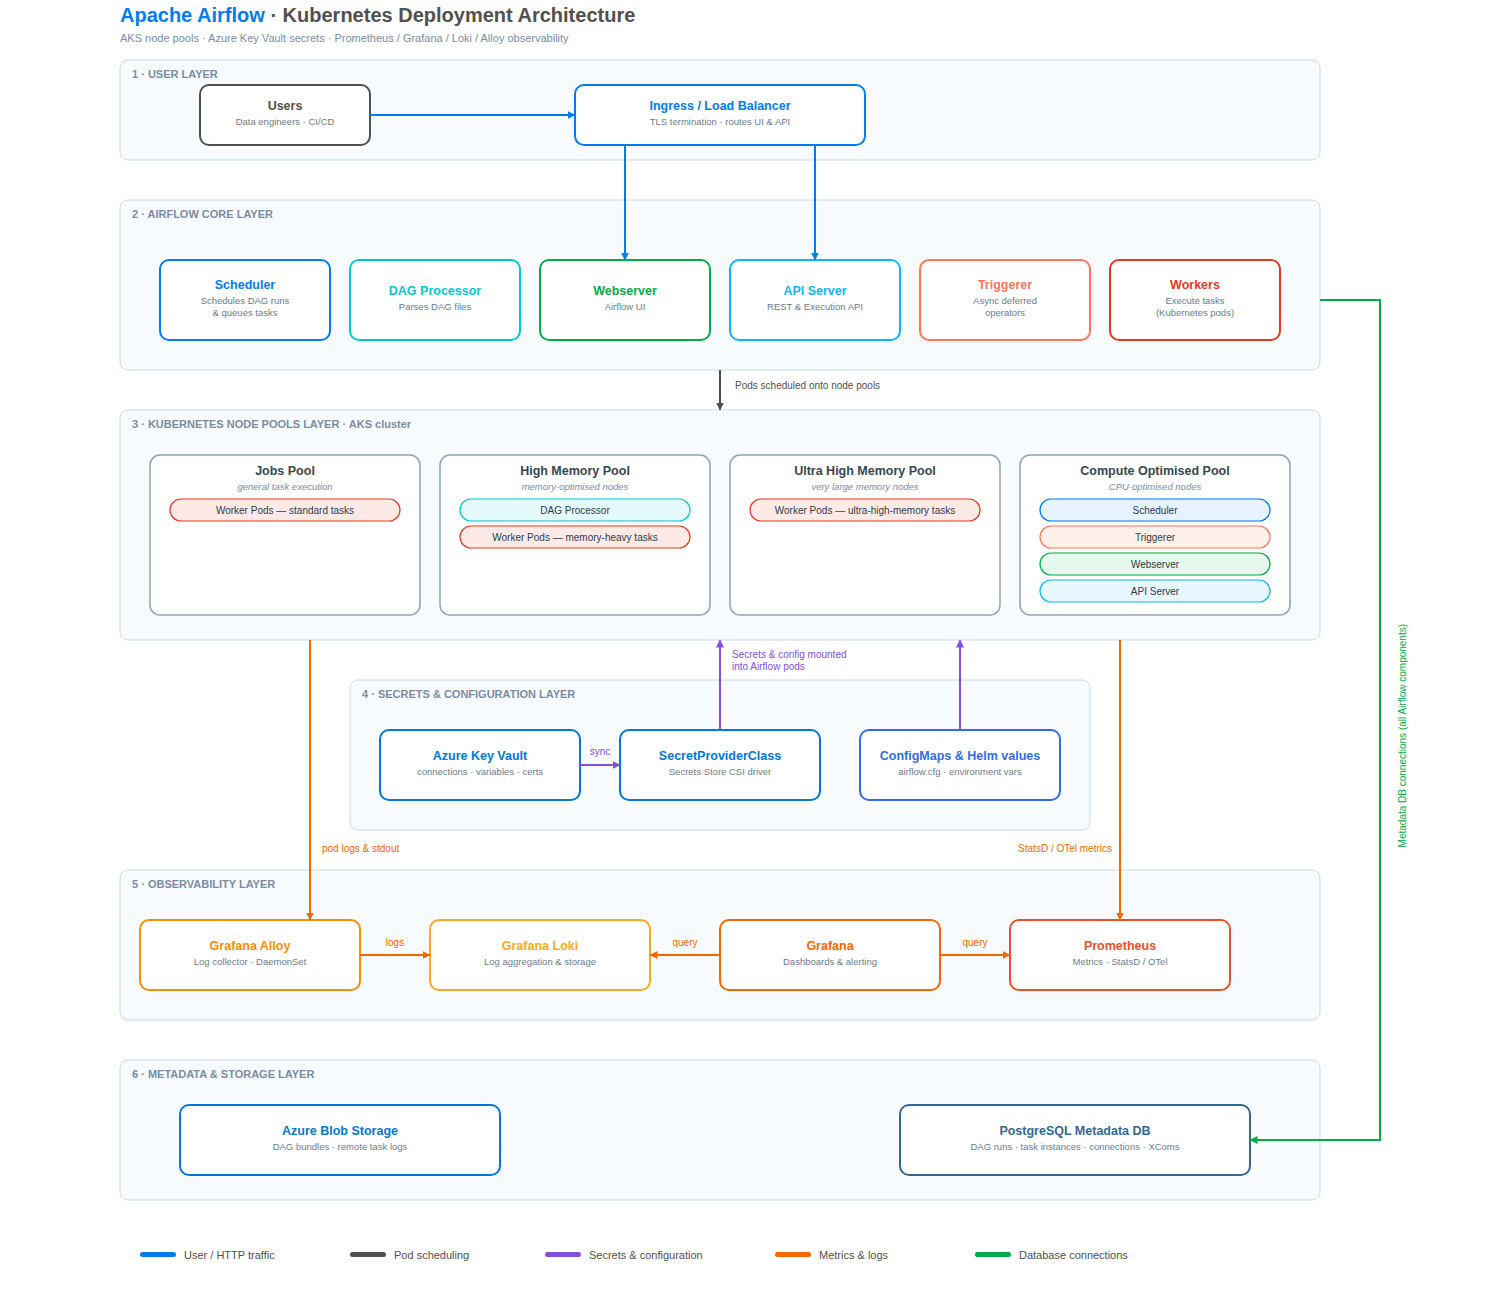
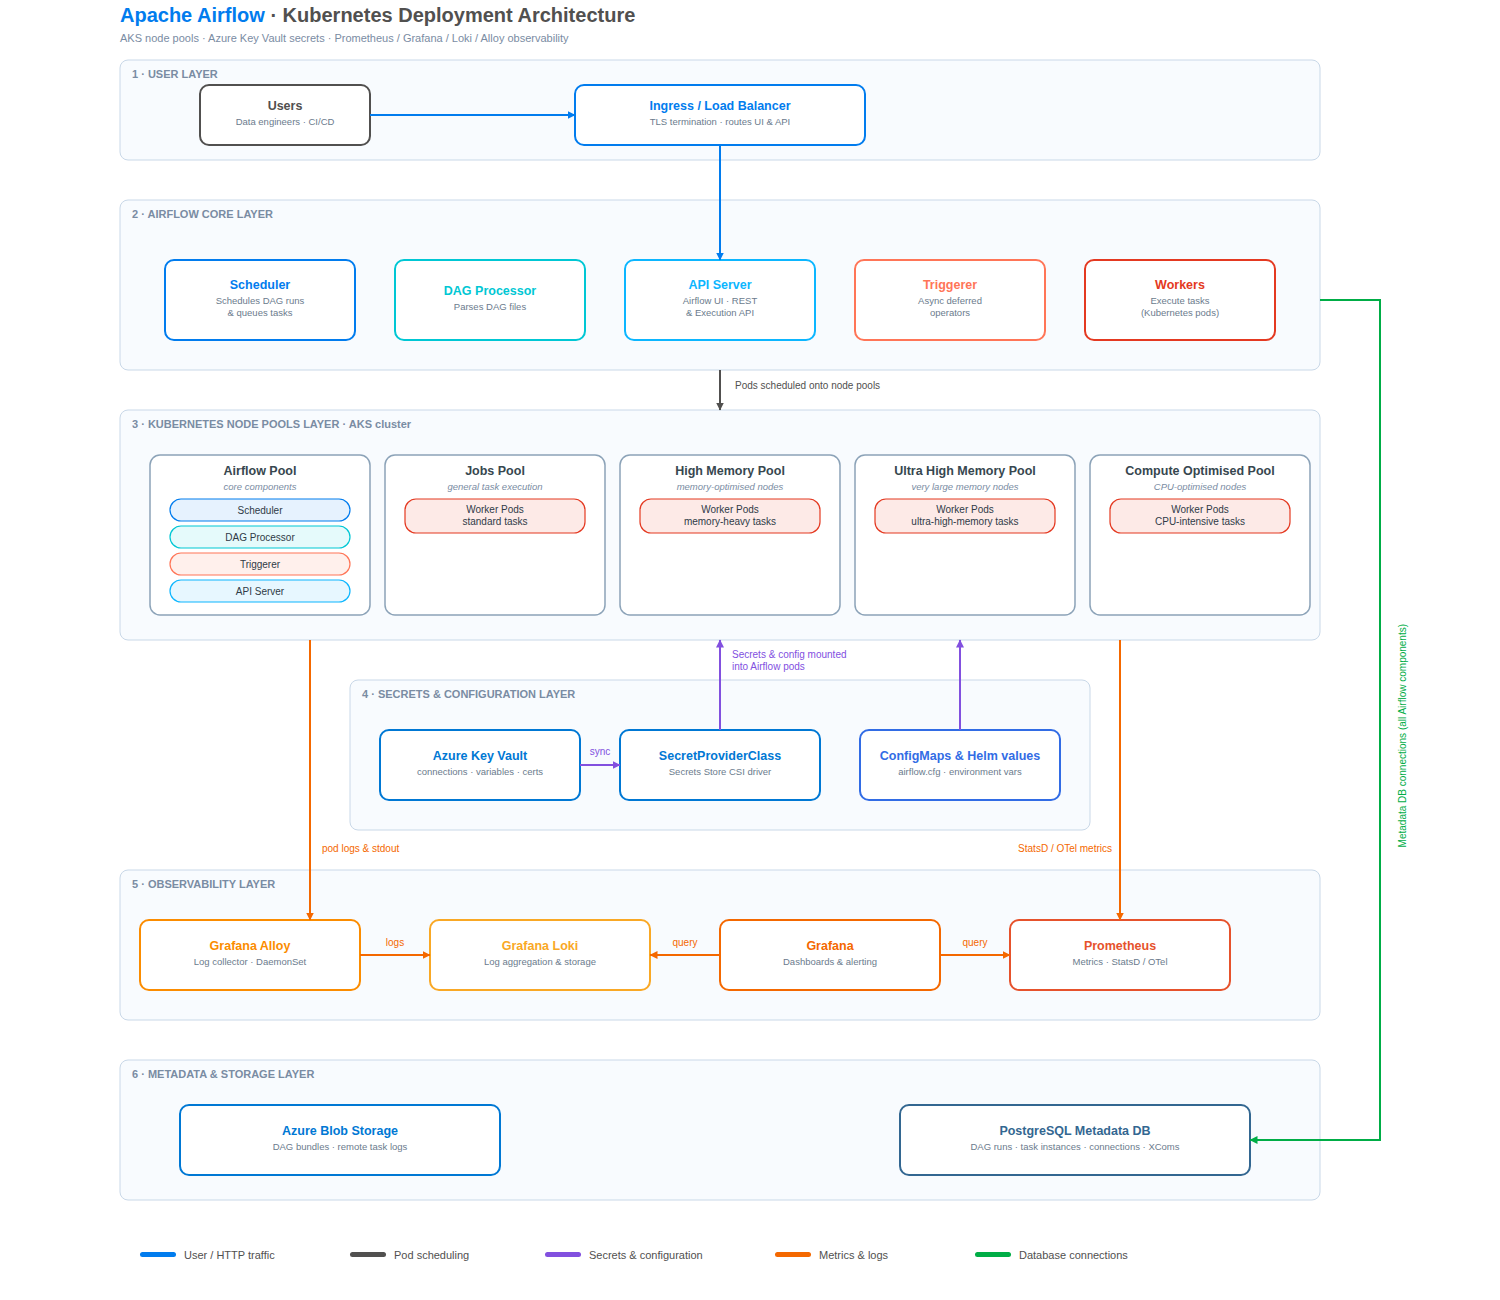
Update diagram for Airflow 3: API Server serves UI, dedicated Airflow node pool
Remove the standalone Webserver (Airflow 3's API Server serves the UI
plus the REST and Execution APIs) and route the ingress to the API
Server only. Core components (Scheduler, DAG Processor, Triggerer,
API Server) now run on a dedicated Airflow Pool; the Jobs, High Memory,
Ultra High Memory and Compute Optimised pools each show only worker
pods for their resource profile.

Claude-Session: https://claude.ai/code/session_01CHBJxQA6RhaoVpnEP1yZFL

diff --git a/architecture/generate_diagram.py b/architecture/generate_diagram.py
@@ -63,12 +63,11 @@ BOXES = [
     ("user",    "Users",                    ["Data engineers · CI/CD"],                 GRAY,   200,   85, 170, 60),
     ("ingress", "Ingress / Load Balancer",  ["TLS termination · routes UI & API"],      BLUE,   575,   85, 290, 60),
 
-    ("sched",   "Scheduler",                ["Schedules DAG runs", "& queues tasks"],        BLUE,   160,  260, 170, 80),
-    ("dagproc", "DAG Processor",            ["Parses DAG files"],                            TEAL,   350,  260, 170, 80),
-    ("web",     "Webserver",                ["Airflow UI"],                                  GREEN,  540,  260, 170, 80),
-    ("api",     "API Server",               ["REST & Execution API"],                        SKY,    730,  260, 170, 80),
-    ("trig",    "Triggerer",                ["Async deferred", "operators"],                 CORAL,  920,  260, 170, 80),
-    ("work",    "Workers",                  ["Execute tasks", "(Kubernetes pods)"],          RED,   1110,  260, 170, 80),
+    ("sched",   "Scheduler",                ["Schedules DAG runs", "& queues tasks"],        BLUE,   165,  260, 190, 80),
+    ("dagproc", "DAG Processor",            ["Parses DAG files"],                            TEAL,   395,  260, 190, 80),
+    ("api",     "API Server",               ["Airflow UI · REST", "& Execution API"],        SKY,    625,  260, 190, 80),
+    ("trig",    "Triggerer",                ["Async deferred", "operators"],                 CORAL,  855,  260, 190, 80),
+    ("work",    "Workers",                  ["Execute tasks", "(Kubernetes pods)"],          RED,   1085,  260, 190, 80),
 
     ("akv",     "Azure Key Vault",          ["connections · variables · certs"],   AZURE,  380,  730, 200, 70),
     ("spc",     "SecretProviderClass",      ["Secrets Store CSI driver"],                    AZURE,  620,  730, 200, 70),
@@ -84,24 +83,27 @@ BOXES = [
                                                                                              PGBLUE, 900, 1105, 350, 70),
 ]
 
-# id, title, subtitle, x  (all pools: y=455, w=270, h=160)
-POOL_Y, POOL_W, POOL_H = 455, 270, 160
+# id, title, subtitle, x, chips  (all pools: y=455, w=220, h=160)
+# each chip is (lines, colour) — 1-line chips are 22px, 2-line chips 34px
+POOL_Y, POOL_W, POOL_H = 455, 220, 160
 POOLS = [
-    ("poolJobs",  "Jobs Pool",                 "general task execution",  150,
-     [("Worker Pods — standard tasks", RED)]),
-    ("poolHi",    "High Memory Pool",          "memory-optimised nodes",  440,
-     [("DAG Processor", TEAL), ("Worker Pods — memory-heavy tasks", RED)]),
-    ("poolUltra", "Ultra High Memory Pool",    "very large memory nodes", 730,
-     [("Worker Pods — ultra-high-memory tasks", RED)]),
-    ("poolCpu",   "Compute Optimised Pool",    "CPU-optimised nodes",    1020,
-     [("Scheduler", BLUE), ("Triggerer", CORAL), ("Webserver", GREEN), ("API Server", SKY)]),
+    ("poolAf",    "Airflow Pool",              "core components",         150,
+     [(["Scheduler"], BLUE), (["DAG Processor"], TEAL),
+      (["Triggerer"], CORAL), (["API Server"], SKY)]),
+    ("poolJobs",  "Jobs Pool",                 "general task execution",  385,
+     [(["Worker Pods", "standard tasks"], RED)]),
+    ("poolHi",    "High Memory Pool",          "memory-optimised nodes",  620,
+     [(["Worker Pods", "memory-heavy tasks"], RED)]),
+    ("poolUltra", "Ultra High Memory Pool",    "very large memory nodes", 855,
+     [(["Worker Pods", "ultra-high-memory tasks"], RED)]),
+    ("poolCpu",   "Compute Optimised Pool",    "CPU-optimised nodes",    1090,
+     [(["Worker Pods", "CPU-intensive tasks"], RED)]),
 ]
 
 # id, colour, points [(x,y)...] first=start last=end (arrow at end)
 EDGES = [
     ("e1",  BLUE,   [(370, 115), (575, 115)]),
-    ("e2",  BLUE,   [(625, 145), (625, 260)]),
-    ("e3",  BLUE,   [(815, 145), (815, 260)]),
+    ("e2",  BLUE,   [(720, 145), (720, 260)]),
     ("e4",  GRAY,   [(720, 370), (720, 410)]),
     ("e5",  PURPLE, [(580, 765), (620, 765)]),
     ("e6",  PURPLE, [(720, 730), (720, 640)]),
@@ -172,12 +174,13 @@ def drawio() -> str:
             f"strokeColor={POOLSTR};strokeWidth=1.5;verticalAlign=top;spacingTop=4;"
             f"fontSize=12;fontColor=#37474F;", px, POOL_Y, POOL_W, POOL_H)
         cy = POOL_Y + 44
-        for i, (ctext, ccol) in enumerate(chips):
-            vtx(f"{pid}_c{i}", ctext,
+        for i, (clines, ccol) in enumerate(chips):
+            ch = 22 if len(clines) == 1 else 34
+            vtx(f"{pid}_c{i}", "<br/>".join(escape(s) for s in clines),
                 f"rounded=1;arcSize=40;html=1;whiteSpace=wrap;fillColor={TINT[ccol]};"
                 f"strokeColor={ccol};strokeWidth=1.2;fontSize=10;fontColor=#2F3B47;",
-                px + 20, cy, 230, 22)
-            cy += 27
+                px + 20, cy, POOL_W - 40, ch)
+            cy += ch + 5
 
     for bid, btitle, subs, col, x, y, w, h in BOXES:
         sub = "<br/>".join(escape(s) for s in subs)
@@ -282,11 +285,17 @@ def svg() -> str:
         text(px + POOL_W / 2, POOL_Y + 20, ptitle, 12.5, "#37474F", anchor="middle", bold=True)
         text(px + POOL_W / 2, POOL_Y + 35, psub, 9.5, LFONT, anchor="middle", italic=True)
         cy = POOL_Y + 44
-        for ctext, ccol in chips:
-            out.append(f'<rect x="{px + 20}" y="{cy}" width="230" height="22" rx="11" '
-                       f'fill="{TINT[ccol]}" stroke="{ccol}" stroke-width="1.2"/>')
-            text(px + 20 + 115, cy + 15, ctext, 10, "#2F3B47", anchor="middle")
-            cy += 27
+        for clines, ccol in chips:
+            ch = 22 if len(clines) == 1 else 34
+            out.append(f'<rect x="{px + 20}" y="{cy}" width="{POOL_W - 40}" height="{ch}" '
+                       f'rx="11" fill="{TINT[ccol]}" stroke="{ccol}" stroke-width="1.2"/>')
+            if len(clines) == 1:
+                text(px + POOL_W / 2, cy + 15, clines[0], 10, "#2F3B47", anchor="middle")
+            else:
+                for j, line in enumerate(clines):
+                    text(px + POOL_W / 2, cy + 14 + j * 12, line, 10, "#2F3B47",
+                         anchor="middle")
+            cy += ch + 5
 
     for _, btitle, subs, col, x, y, w, h in BOXES:
         out.append(f'<rect x="{x}" y="{y}" width="{w}" height="{h}" rx="9" '

diff --git a/architecture/README.md b/architecture/README.md
@@ -23,13 +23,16 @@ to get a native Visio file.
 
 1. **User Layer** — users reach the Airflow UI and REST API through an
    Ingress / Load Balancer (TLS termination).
-2. **Airflow Core Layer** — Scheduler, DAG Processor, Webserver, API Server,
-   Triggerer, Workers.
+2. **Airflow Core Layer** — Scheduler, DAG Processor, API Server (serves the
+   Airflow UI as well as the REST & Execution APIs in Airflow 3), Triggerer,
+   Workers.
 3. **Kubernetes Node Pools Layer** — pods are placed by resource profile:
+   - **Airflow Pool** — the core components: Scheduler, DAG Processor,
+     Triggerer, API Server
    - **Jobs Pool** — worker pods for standard tasks
-   - **High Memory Pool** — DAG Processor and memory-heavy worker pods
+   - **High Memory Pool** — worker pods for memory-heavy tasks
    - **Ultra High Memory Pool** — worker pods for very large in-memory workloads
-   - **Compute Optimised Pool** — Scheduler, Triggerer, Webserver, API Server
+   - **Compute Optimised Pool** — worker pods for CPU-intensive tasks
 4. **Secrets & Configuration Layer** — Azure Key Vault synced through a
    `SecretProviderClass` (Secrets Store CSI driver); secrets and ConfigMaps /
    Helm values are mounted into the Airflow pods as volumes and env vars.
